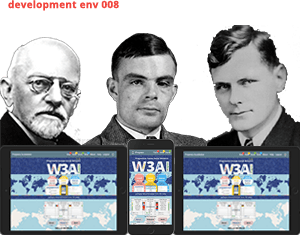
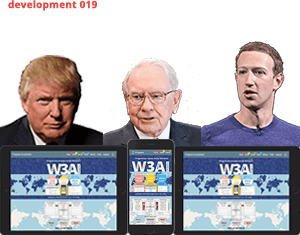
added Trump Buffett Zuck cover img for agile web

diff --git a/src/app/navigation/header/header.component.html b/src/app/navigation/header/header.component.html
@@ -10,7 +10,7 @@
 <section class="toolbar-text" fxFlex>
 
     <div fxFlex fxLayout fxLayoutAlign="flex-start" fxHide.gt-sm>
-        <a routerLink="/">agile</a>
+        <a routerLink="/">agile web</a>
     </div>
 
     <div xFlex fxLayout fxLayoutAlign="flex-start" fxHide.lt-md>
